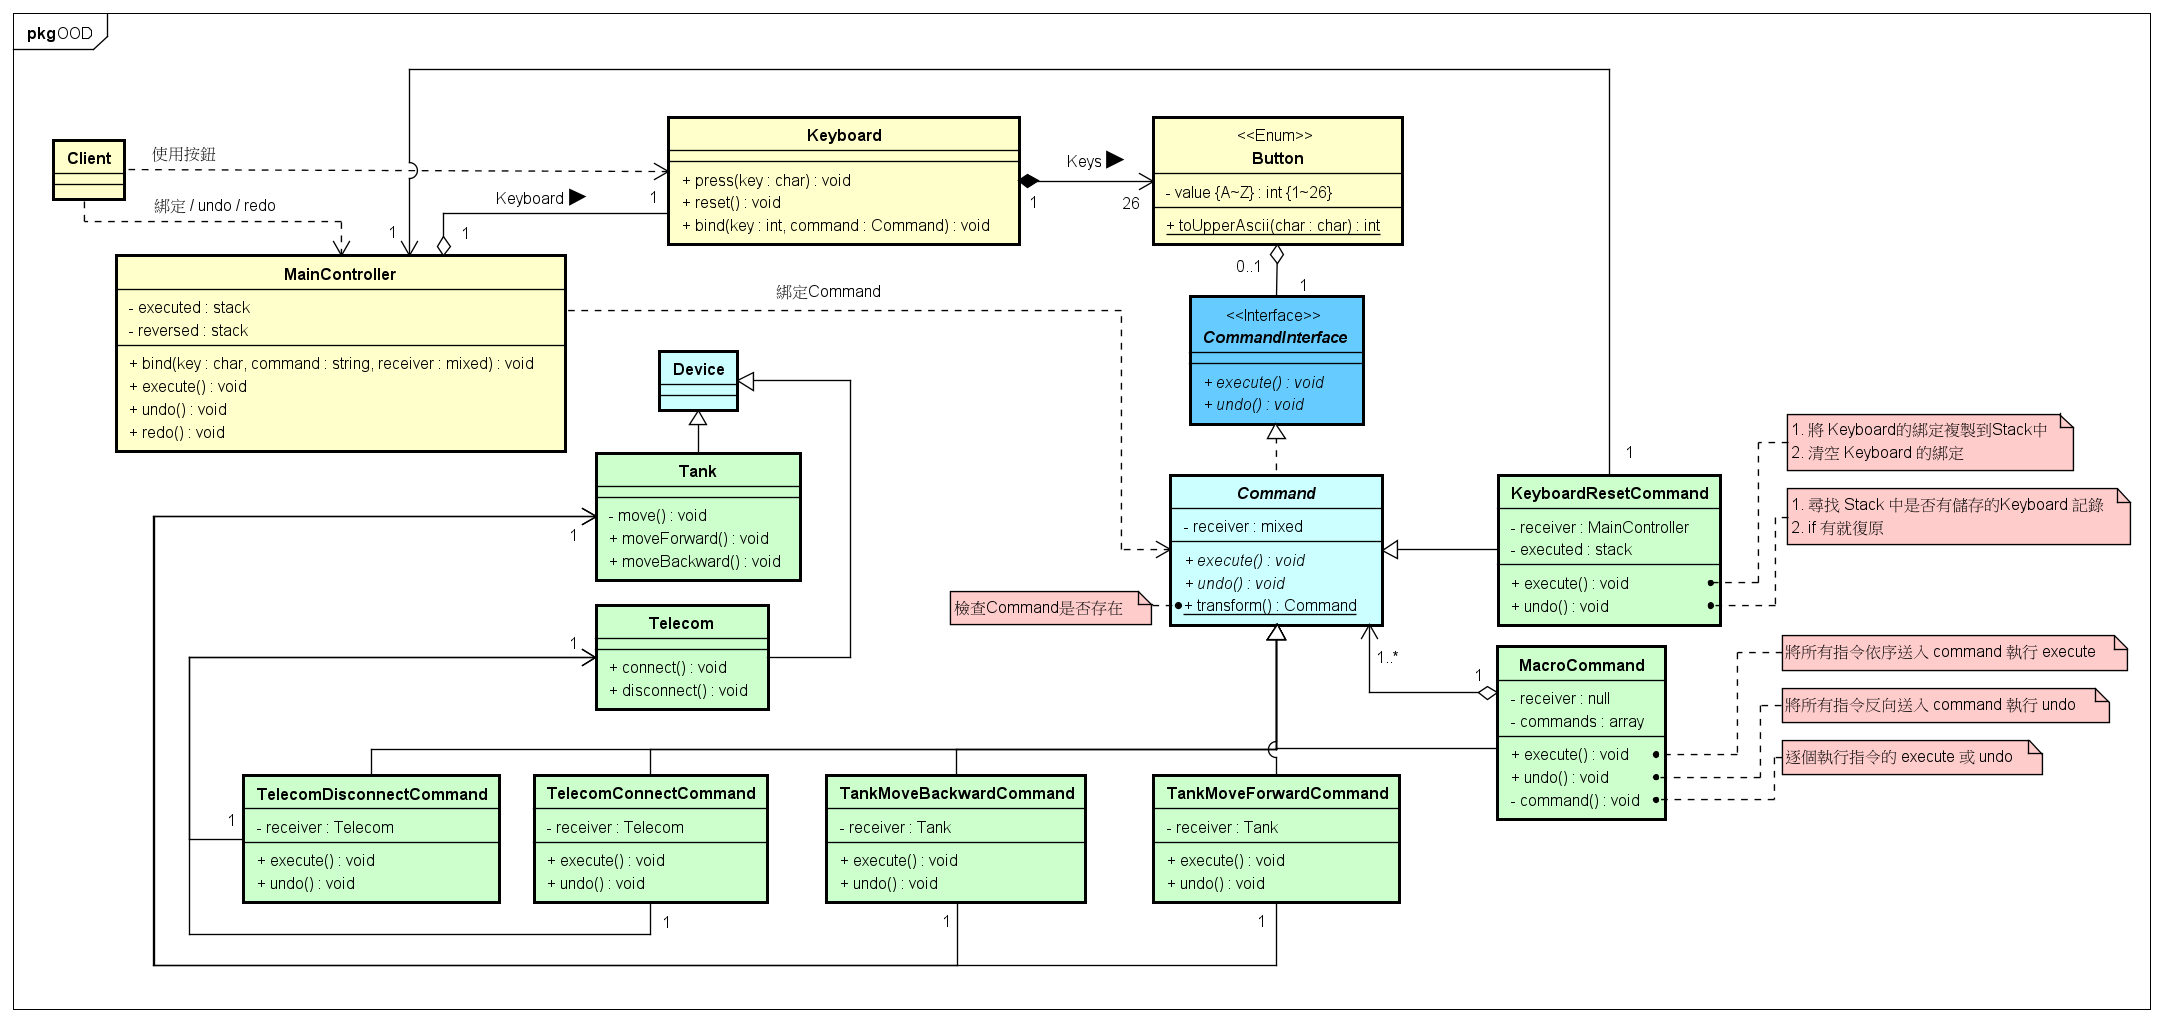
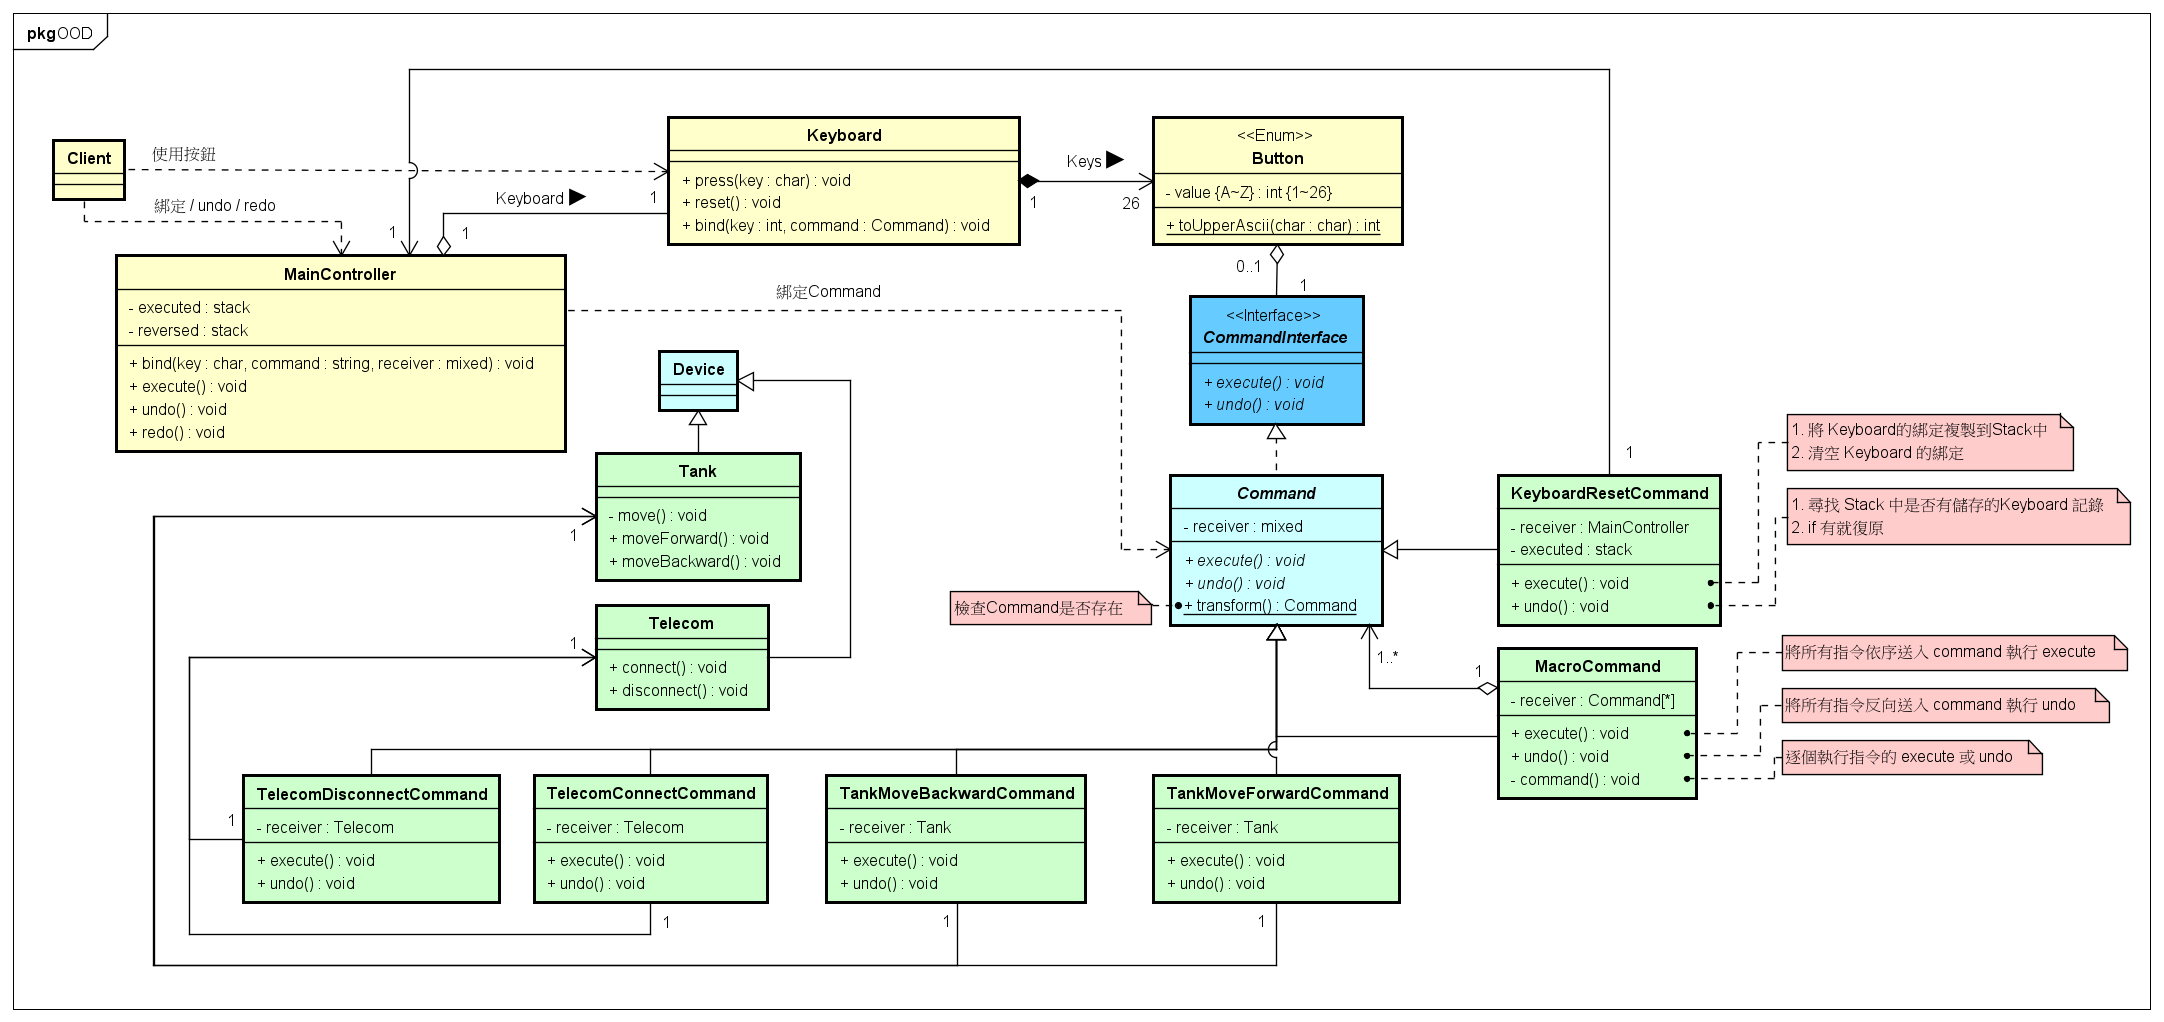
Feat: Modified the receiver of MacroCommand from null to commands

Changed region(s): [[0.6192, 0.6067, 0.805, 0.819]]

diff --git a/C3M2H1/src/Commands/MacroCommand.php b/C3M2H1/src/Commands/MacroCommand.php
@@ -4,12 +4,9 @@ namespace C3M2H1\Commands;
 
 class MacroCommand extends Command
 {
-    private array $commands;
-
     public function __construct(array $commands)
     {
-        parent::__construct(null);
-        $this->commands = $commands;
+        parent::__construct($commands);
     }
 
     private function command(array $commands, string $method): void
@@ -24,12 +21,12 @@ class MacroCommand extends Command
 
     public function execute(): void
     {
-        $this->command($this->commands, 'execute');
+        $this->command($this->receiver, 'execute');
     }
 
     public function undo(): void
     {
-        $commands = array_reverse($this->commands);
+        $commands = array_reverse($this->receiver);
         $this->command($commands, 'undo');
     }
 }
